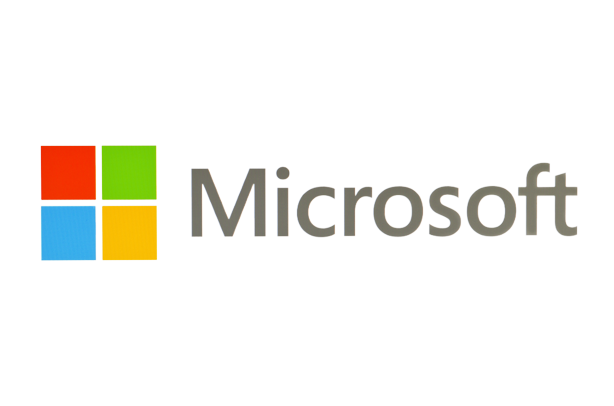
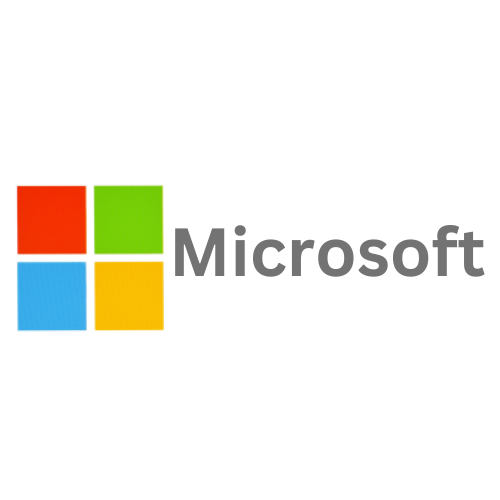
full project done

Changed region(s): [[0.03, 0.3547, 0.99, 0.6798]]

diff --git a/index.html b/index.html
@@ -5,28 +5,35 @@
     <meta charset="UTF-8">
     <meta http-equiv="X-UA-Compatible" content="IE=edge">
     <meta name="viewport" content="width=device-width, initial-scale=1.0">
-    <title>Donate Now</title>
+    <title>Donate Today</title>
 
     <link href="https://fonts.googleapis.com/css2?family=Lobster+Two&family=Roboto:wght@100;300;400;700&display=swap"
         rel="stylesheet">
 
+    <!----------------EXTERNAL CSS LINK------------------->
     <link rel="stylesheet" href="style.css">
 
 </head>
 
 <body>
-
+    <!-------------Header Section Start----------->
     <header>
         <div class="top-banner-image">
-            <h1 id="top-banner-title">Let's Help Those Who Are <br> More In Need</h1>
-            <p id="top-banner-sub-title">You must never look for a reason to help those who yearn for support.
-                Extending<br>a helping hand not only vanishes tears off their face, but also acts as a cure for oneself.
-            <p>
-            <div class="donate-now">
-                <a class="donate-now-link" href="#" target="_blank">Donate Now</a>
+            <div class="opacity">
+                <h1 id="top-banner-title">Let's Help Those Who Are <br> More In Need</h1>
+                <p id="top-banner-sub-title">You must never look for a reason to help those who yearn for support.
+                    Extending<br>a helping hand not only vanishes tears off their face, but also acts as a cure for
+                    oneself.
+                <p>
+                <div class="donate-now">
+                    <a class="donate-now-link" href="#" target="_blank">Donate Now</a>
+                </div>
             </div>
         </div>
     </header>
+    <!-------------Header Section End----------->
+
+
 
     <main>
         <section class="donate-today-container">
@@ -36,23 +43,23 @@
                 people <br> just need a shoulder to cry on or some good advice.</p>
             <div class="donate-today-div">
                 <div class="donate-today-sub-div">
-                    <span>100tk</span>
+                    <span>5$</span>
                 </div>
                 <div class="donate-today-sub-div second-div">
-                    <span>200tk</span>
+                    <span>10$</span>
                 </div>
                 <div class="donate-today-sub-div">
-                    <span>500tk</span>
+                    <span>15$</span>
                 </div>
                 <div class="donate-today-sub-div">
-                    <span>1000tk</span>
+                    <span>20$</span>
                 </div>
                 <div class="donate-today-sub-div">
-                    <span>5000tk</span>
+                    <span>25$</span>
                 </div>
             </div>
             <div class="other-amount-div">
-                <p class="other-amount-taka">Other Amount (Taka)</p>
+                <p class="other-amount-taka">Other Amount (Dollar)</p>
             </div>
             <hr class="other-amount">
             <div class="donate-now">
@@ -118,7 +125,7 @@
             <div class="flexible-div">
                 <div class="left-half-width">
 
-                    <h1>Thier lives depend on <br> your donation</h1>
+                    <h1 class="lives-section">Thier Lives Depends On <br> Your Donation</h1>
                     <p class="half-width-paragraph">Donating to the causes you care about not only benefits the
                         charities
                         themselves, it can be deeply
@@ -148,10 +155,10 @@
                     <img class="microsoft" src="image/microsoft.png" alt="Microsoft">
                 </div>
                 <div class="logo1">
-                    <img class="microsoft" src="image/world.png" alt="World Bnak">
+                    <img class="microsoft" src="image/worldbank.png" alt="World Bank">
                 </div>
                 <div class="logo1">
-                    <img class="microsoft" src="image/grameen.png" alt="GrammenPhone">
+                    <img class="microsoft" src="image/grameenphone.png" alt="GrammenPhone">
                 </div>
                 <div class="logo1">
                     <img class="microsoft" src="image/giz.png" alt="GIZ">
@@ -177,8 +184,8 @@
     </main>
 
     <footer class="footer-background">
-        <h3 class="footer-heading">Be Humble</h3>
-        <p class="footer-paragraph">I'm gonna do it</p>
+        <h3 class="footer-heading">Donate Today</h3>
+        <p class="footer-paragraph">Copyright © 2022 - All right reserved by <span>Zakia Aktar</span></p>
     </footer>
 
 </body>

diff --git a/style.css b/style.css
@@ -9,36 +9,51 @@ body {
 }
 
 .top-banner-image {
-    background-image: url(image/donation1.jpg);
+    background-image: url("image/donation1.jpeg");
     width: 100%;
     height: 600px;
     background-repeat: no-repeat;
     background-size: cover;
     background-position: center;
+    margin: 0 auto;
+    position: relative;
+
+}
+
+.opacity{
+    width: 100%;
+    height: 600px;
+    background-color: black;
+    opacity: 0.6;
+    position: absolute;
+    margin: 0 auto;
 }
 
 #top-banner-title {
     color: white;
-    font-size: 700;
-    font-weight: bold;
+    font-size: 35px;
+    font-weight: bolder;
     text-align: center;
-    padding-top: 170px;
+    padding-top: 175px;
 }
 
 #top-banner-sub-title {
     color: white;
     text-align: center;
     padding-top: 25px;
+
 }
+
 
 .donate-now-link {
     background-color: tomato;
     color: white;
     font-size: 18px;
+    font-weight: bold;
     text-decoration: none;
     border-radius: 5px;
     border: none;
-    padding: 12px 15px;
+    padding: 12px 35px;
 }
 
 .donate-now {
@@ -50,12 +65,13 @@ body {
 .donate-today-container {
     width: 65%;
     margin: 0 auto;
-    margin-top: 65px;
+    margin-top: 90px;
 }
 
 .donate-today-title {
-    font-size: 25px;
+    font-size: 28px;
     text-align: center;
+    color: tomato;
 }
 
 .donate-today-sub-title {
@@ -177,6 +193,11 @@ body {
     margin-top: 30px;
 }
 
+.lives-section{
+    font-size: 28px;
+    color: tomato;
+}
+
 .how-to-contribute-link {
     background-color: tomato;
     color: white;
@@ -184,30 +205,34 @@ body {
     text-decoration: none;
     border-radius: 5px;
     border: none;
-    padding: 12px 15px;
+    padding: 12px 35px;
+    font-weight: bold;
 }
+
+
 
 .partner-logo {
     display: flex;
     justify-content: space-between;
     padding-top: 20px;
     align-items: center;
-    margin-left: 90px;
+
 }
 
 .microsoft {
-    width: 70%;
+    width: 75%;
+
 }
 
 .yellow-color {
     background-color: rgba(247, 247, 135, 0.502);
-    width: 90%;
+    width: 95%;
     height: 120px;
     display: flex;
     justify-content: center;
     align-items: center;
     margin-top: 50px;
-    margin-left: 60px;
+    
 }
 
 .email {
@@ -240,4 +265,8 @@ body {
 
 .footer-paragraph {
     color: white;
+}
+
+.footer-paragraph span {
+    color: #ff7675;
 }
